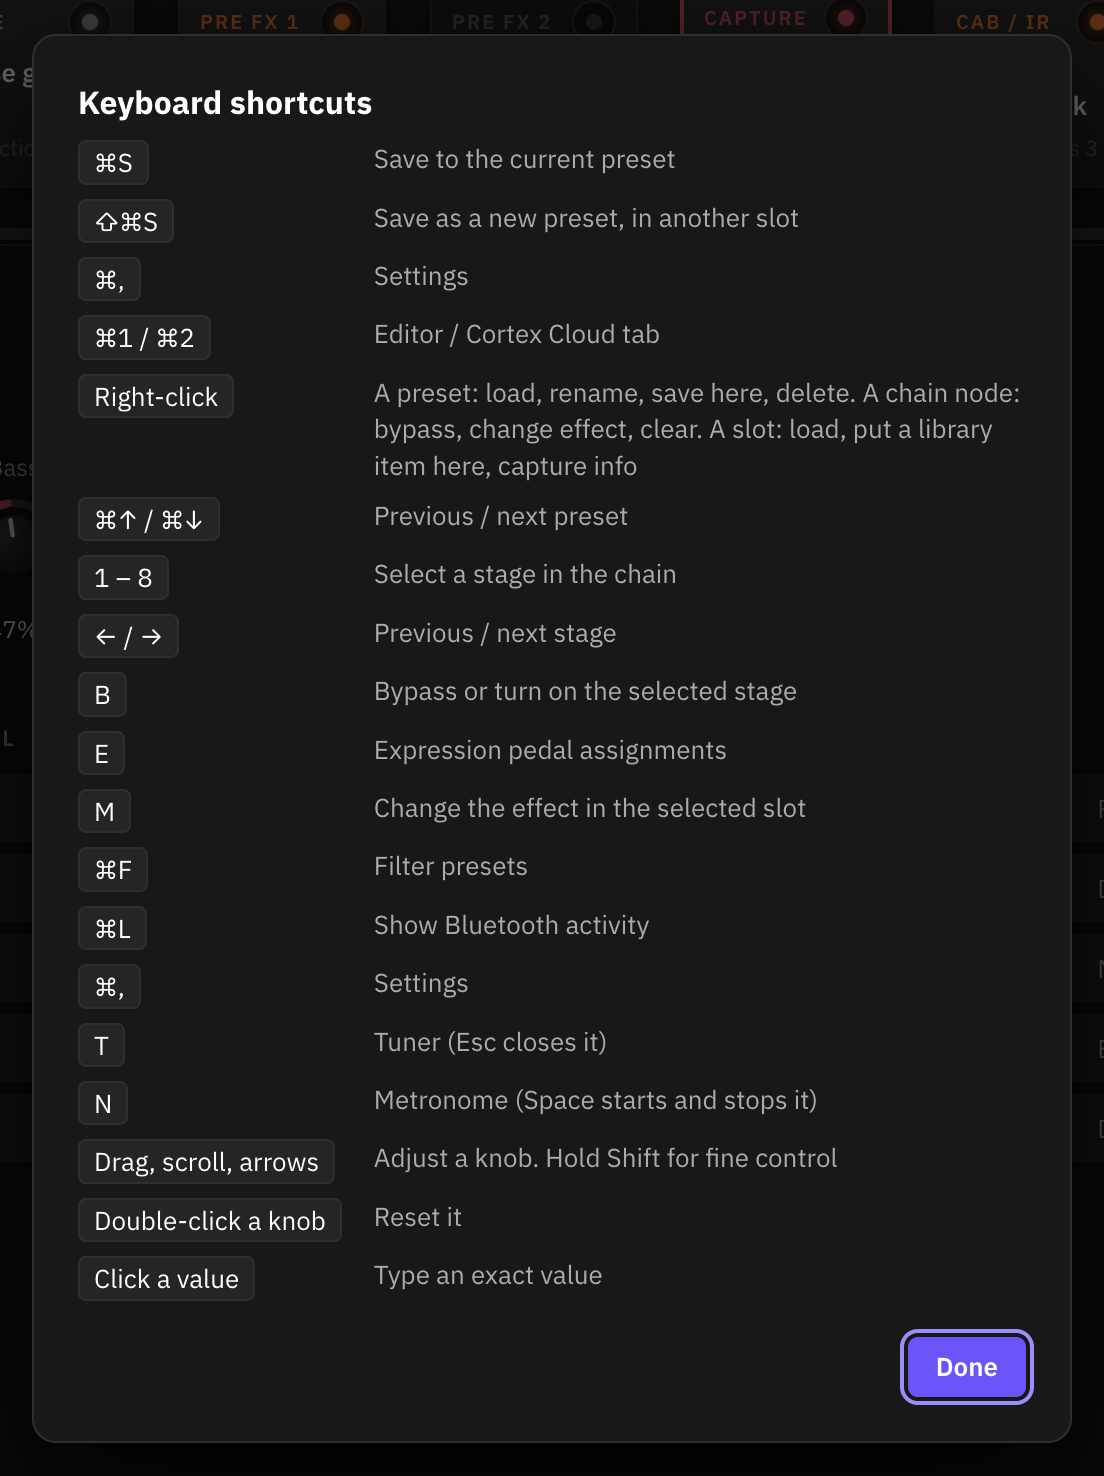
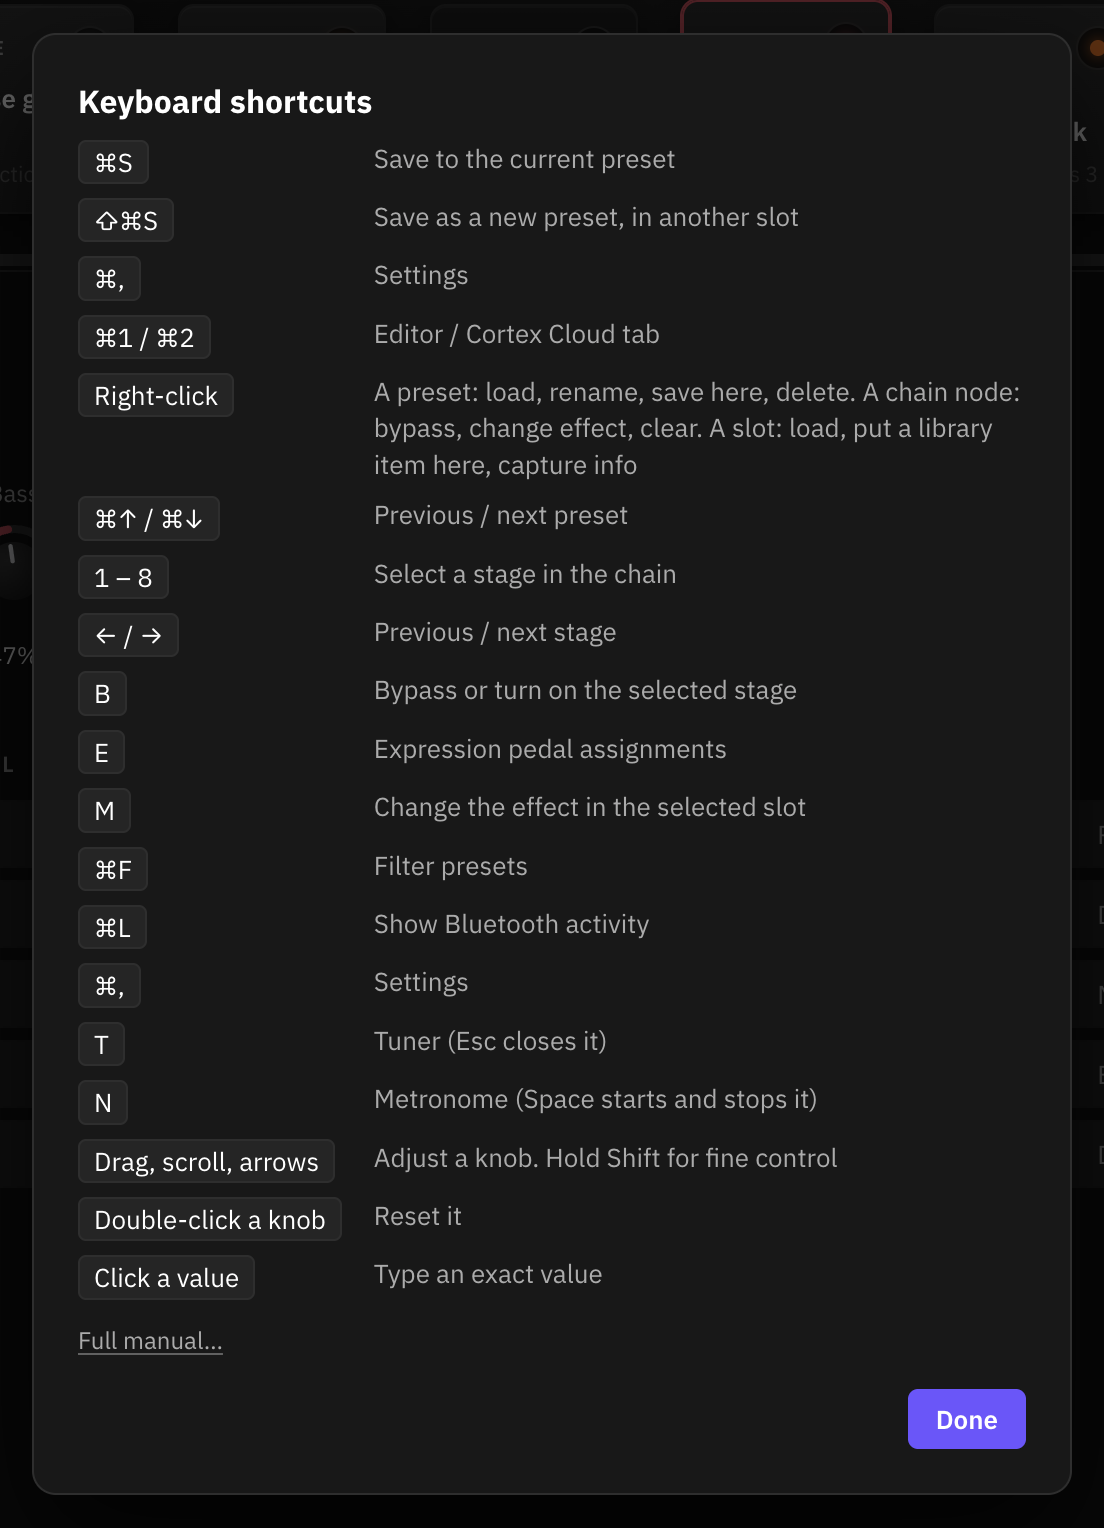
Docs: support link, manual links, Help menu and Settings → About
- README: Download · Manual links near the top; one Buy Me a Coffee line under License.
- Manual: Help menu, Support button, About tab, manual/troubleshooting links; FAQ line; new settings-about.png
  and refreshed status-bar, connect, shortcuts, settings and activity screenshots (docs:screenshots).
- .github/FUNDING.yml; release notes end with the Buy Me a Coffee line; CHANGELOG Unreleased entry.

diff --git a/scripts/docs-screenshots.js b/scripts/docs-screenshots.js
@@ -191,6 +191,9 @@ async function run() {
   await js('void __openSettings("device")'); await sleep(350);
   await shot('settings-device', '.modal', 16);
   await key('Escape');
+  await js('void __openSettings("about")'); await sleep(250);
+  await shot('settings-about', '.modal', 16);
+  await key('Escape');
 
   // activity + shortcuts
   await key('l', [MOD]); await sleep(300); await hideToast();

diff --git a/CLAUDE.md b/CLAUDE.md
@@ -11,7 +11,7 @@ User docs: `README.md`, `docs/MANUAL.md` (screenshots from `npm run docs:screens
 - The app runs as an Electron app with two tabs: the pro editor (`pro/`) and the Cortex Cloud website (their real login, persistent session).
 - This repo is the Electron product for good (and the shareable one). The native Mac edition is <https://github.com/AJs-Creations/nano-cortex-editor-mac> (local clone `../nano-cortex-editor-mac`); the two READMEs link each other.
 - **No recordings in git, ever** (not even in history): session recordings, `.pklg`/HCI traces and capture bundles stay local (`test/fixtures/sessions/` and those types are git-ignored). Tests inline the specific frames they need with identifying values replaced.
-- Hardware-verified on a Nano Cortex (firmware 2.2.1) on 2026-10-08, including Cortex Cloud → pedal capture transfer. `npm run test:ux` passes 458/458 on macOS with demo data (CI, `.github/workflows/ci.yml`, on PRs to `staging`/`main`: a required smoke job and the UX test, also required; the test waits on conditions, not fixed sleeps, so it holds on GitHub's slow macOS runners). Windows is untested.
+- Hardware-verified on a Nano Cortex (firmware 2.2.1) on 2026-10-08, including Cortex Cloud → pedal capture transfer. `npm run test:ux` passes 474/474 on macOS with demo data (CI, `.github/workflows/ci.yml`, on PRs to `staging`/`main`: a required smoke job and the UX test, also required; the test waits on conditions, not fixed sleeps, so it holds on GitHub's slow macOS runners). Windows is untested.
 - Inside VS Code's terminal `ELECTRON_RUN_AS_NODE=1` is set, which makes `electron` behave like `node`. The npm scripts clear it; if you run `electron` by hand, prefix `env -u ELECTRON_RUN_AS_NODE`.
 
 ## Commands
@@ -32,6 +32,7 @@ npm run docs:screenshots # regenerate docs/images/ in demo mode (needs Python + 
 - `editor/index.html`: the upstream community editor ([DrD85/nano-cortex-editor](https://github.com/DrD85/nano-cortex-editor), MIT; commit in `editor/README.md`), **verbatim**. Don't edit it. It's the protocol reference and the "Classic Editor" fallback (View menu).
 - `scripts/build-core.js`: parses the upstream script with acorn and keeps only the declarations reachable from the functions the pro UI calls (`ENTRY`). Upstream UI functions the pro UI replaces (`HOOKS`: `render`, `log`, `toast`, `showSaveResult`, `chooseSlot`, …) become empty stubs. `$()` is patched to return a dummy element for ids the pro page lacks. It fails loudly if upstream renamed anything in `ENTRY`.
 - `pro/core.js`: **generated, never hand-edit.** It defines the global `state`, `MSG` (message types), every device write (`setFXParam`, `setAmpKnob`, `savePreset`, `selectPreset`, `renamePresetTo`, `loadLibraryCapture`, …) and the notification parsers (`onC305`, `handleTypedMessage`).
+- `pro/links.js`: the one place for outside links (repo, manual, troubleshooting anchor, issues, native edition, Buy Me a Coffee) and the version shown in Settings → About (keep it equal to `package.json`; the UX test checks). Loaded by the page and required by `src/main.js` (Help menu, About panel). Links always open in the default browser (`window.nanoShell.openExternal` → `shell.openExternal`, allowlisted hosts); support stays quiet: no prompts, counters or accent.
 - `pro/transfer.js`: capture upload to the pedal (streamed type-13 message, decoded from a phone-app trace; `docs/INVESTIGATION.md` §6). `src/editor-preload.js` is the only bridge into the editor page: it delivers capture bundles fetched by `src/main.js` with the Cloud tab's session.
 - `pro/ui.js` and `pro/ui.css`: the whole UI. It overrides the hooks on `window`. Demo mode (`?demo`, or no Web Bluetooth) fakes the write characteristic and answers typed requests (preset change, rename, library, slot loads, tuner) through the real parsers, so writes still go through the real packet builders.
 - Metronome (N): Simple / Advanced overlay. `metroBarEvents(setup, bar)` in `pro/ui.js` is the pure event generator (the spec for the native port); the scheduler consumes it, trainers apply only at bar starts, sounds go through `soundFor(role)`.

diff --git a/docs/MANUAL.md b/docs/MANUAL.md
@@ -66,7 +66,7 @@ on the pedal, and saves are permanent.
 
 The editor opens on the connect screen.
 
-![The connect screen: three steps (power on the pedal, make it visible, connect) and the Connect and Explore with demo data buttons](images/connect.png)
+![The connect screen: three steps (power on the pedal, make it visible, connect), the Connect and Explore with demo data buttons, and a Read the manual link](images/connect.png)
 
 1. **Power on the pedal** and quit Cortex Cloud on your phone (or turn off the phone's Bluetooth). **The pedal accepts
    only one Bluetooth connection at a time**; while the phone holds it, the editor cannot see the pedal.
@@ -74,6 +74,9 @@ The editor opens on the connect screen.
    up. After a plain disconnect from the editor it stays reachable without this.
 3. **Click Connect.** The app scans for a few seconds and picks your Nano Cortex automatically. If it can't tell which
    device is the pedal, it shows a list to choose from. No USB cable is needed.
+
+If the pedal doesn't show up or Bluetooth is off, the message on the connect screen has a **Troubleshooting** link to
+[section 15](#15-troubleshooting). **Read the manual** at the bottom opens this manual in your browser.
 
 Once connected, the editor reads the current preset, the preset list, the slots and the library. The status bar shows
 a green light and the pedal's name.
@@ -119,10 +122,14 @@ stage's **On** switch.
 
 ![The capture inspector: amp knobs, capture volume and the 25 capture slots on the pedal](images/inspector-capture.png)
 
-**Status bar** (bottom): connection state, the last action sent, and the **Settings**, **Shortcuts**, **Record** and
-**Activity** buttons.
+**Status bar** (bottom): connection state, the last action sent, and the **Settings**, **Shortcuts**, **Record**,
+**Activity** and **♥ Support** buttons. **♥ Support** opens the project's Buy Me a Coffee page in your browser; it's
+entirely optional.
 
-![The status bar: demo-mode indicator, the last action, and the Settings, Shortcuts, Record and Activity buttons](images/status-bar.png)
+![The status bar: demo-mode indicator, the last action, and the Settings, Shortcuts, Record, Activity and Support buttons](images/status-bar.png)
+
+**Help menu**: **Manual** (this page), **GitHub Repository**, **Report an Issue** and **Support the Project…**. Each
+opens in your default browser.
 
 ## 4. Presets
 
@@ -376,6 +383,11 @@ Open Settings with ⌘, (Ctrl+, on Windows), from the app menu, or with **Settin
 - **Raw settings** lists the other values the pedal reports, read-only.
 - **Read again** refreshes everything.
 
+**About** shows the app's version and who makes it, with links to the GitHub repository, this manual, the native
+macOS edition and **Buy me a coffee** (all open in your browser), plus the trademark note and the licence.
+
+![Settings, About tab: Nano Cortex Editor and its version, Made by AJs Creations, links, the trademark note and the licence](images/settings-about.png)
+
 ## 13. Session recording and the Activity log
 
 **Activity** in the status bar (⌘L) opens the Activity log: every Bluetooth message sent (TX) and received (RX), with
@@ -390,7 +402,8 @@ needed.
 
 ## 14. Keyboard shortcuts
 
-Press **?** (or **Shortcuts** in the status bar) for this list in the app. On Windows use Ctrl for ⌘.
+Press **?** (or **Shortcuts** in the status bar) for this list in the app; **Full manual…** at the bottom opens this
+manual. On Windows use Ctrl for ⌘.
 
 ![The keyboard shortcuts sheet](images/shortcuts.png)
 
@@ -479,6 +492,9 @@ resulting session to download a capture when you click **Send to Nano Cortex**.
 
 **What is View → Classic Editor?** The original community editor by DrD85 that this app's protocol layer comes from,
 kept as a fallback.
+
+**Can I support the project?** It's free and always will be. If this editor saves you time, you can
+[buy me a coffee](https://buymeacoffee.com/ajscreations).
 
 ## 17. Trademark note
 

diff --git a/README.md b/README.md
@@ -9,6 +9,9 @@ whole editor on sample data.
 
 ![The editor in demo mode: the Editor and Cortex Cloud tabs at the top, the preset list on the left, the signal chain across the top and the capture's amp knobs and slots below](docs/images/hero.png)
 
+**[⬇ Download](https://github.com/AJs-Creations/nano-cortex-editor/releases/latest)** ·
+**[📖 Manual](docs/MANUAL.md)**
+
 > **Unofficial.** Neural DSP and Nano Cortex are trademarks of Neural DSP Technologies Oy; this project is not
 > affiliated with or endorsed by Neural DSP.
 
@@ -32,8 +35,8 @@ whole editor on sample data.
 - **Tuner** with reference pitch and output mute.
 - **Metronome** with **Simple** and **Advanced** modes: time signatures, accents, subdivisions and swing, count-in,
   tempo trainer, gap trainer and **Levels**; it can follow the preset's tempo.
-- **Settings** (⌘, / Ctrl+,): accent colour, metronome defaults and click sounds, reconnect at launch, and a
-  **Device** page with the pedal's details, LED brightness and USB playback volume.
+- **Settings** (⌘, / Ctrl+,): accent colour, metronome defaults and click sounds, reconnect at launch, a
+  **Device** page with the pedal's details, LED brightness and USB playback volume, and **About**.
 - **Cortex Cloud tab**: the Cortex Cloud website with your own login; on a capture's page, **Send to Nano Cortex**
   puts it in the pedal's library over Bluetooth.
 - **Activity log and session recording** of the Bluetooth traffic, for troubleshooting.
@@ -111,3 +114,5 @@ describe compatibility. This is an independent tool; use it at your own risk.
 ## License
 
 [MIT](LICENSE) © 2026 AJs Creations.
+
+If this editor saves you time, you can [buy me a coffee](https://buymeacoffee.com/ajscreations).

diff --git a/CHANGELOG.md b/CHANGELOG.md
@@ -2,6 +2,15 @@
 
 All notable changes to Nano Cortex Editor (Electron edition). Versions follow [Semantic Versioning](https://semver.org/).
 
+## Unreleased
+
+### Added
+
+- Settings → About (version, links to the repository, the manual and the native macOS edition), a Help menu (Manual,
+  GitHub Repository, Report an Issue, Support the Project…), links to the manual on the connect screen, in the
+  shortcuts sheet and in connection errors, and a quiet "♥ Support" link in the status bar. Every link opens in
+  your browser.
+
 ## 1.0.0 — 2026-10-09
 
 First public release.
